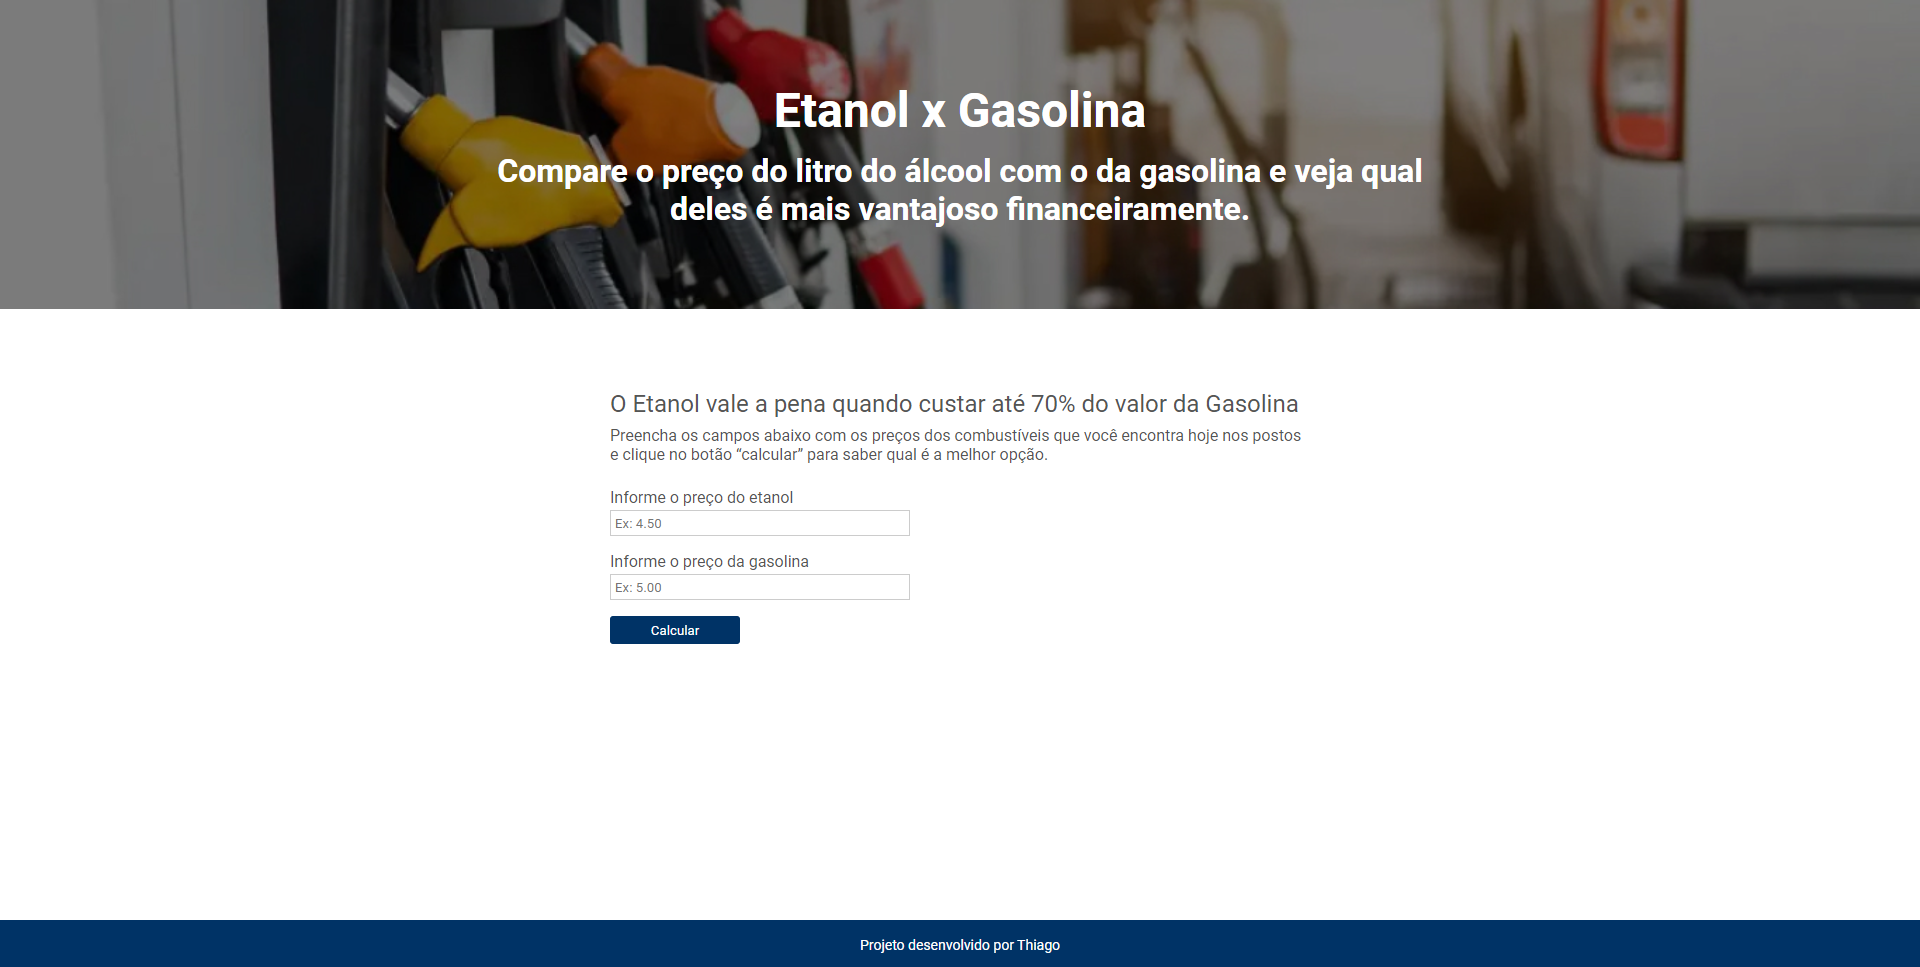
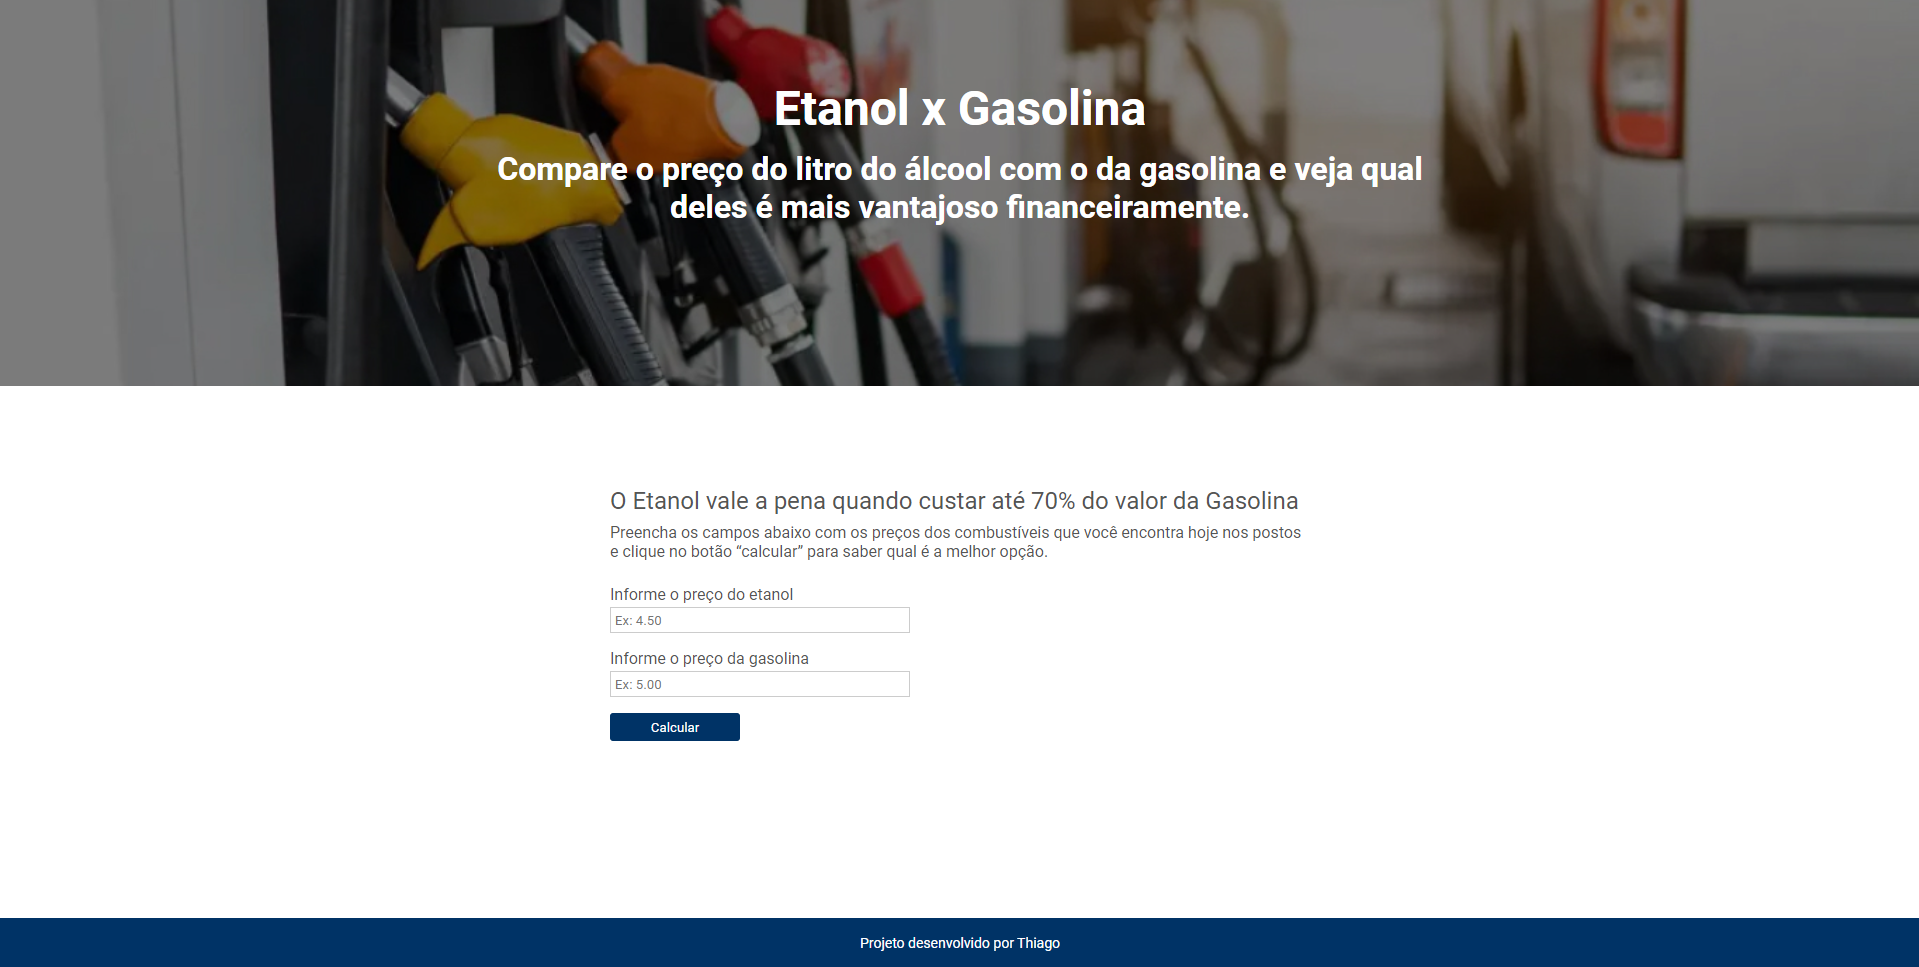
Add files via upload

diff --git a/index.html b/index.html
@@ -40,7 +40,7 @@
 
                 <div class="hero-social">
                     <a href=""><i class='bx bxl-linkedin'></i></a>
-                    <a href=""><i class='bx bxl-github'></i></a>
+                    <a href="https://github.com/Th-nsoliveira" target="_blank"><i class='bx bxl-github'></i></a>
                     <a href=""><i class='bx bxl-instagram'></i></a>
                 </div>
             </div>
@@ -165,6 +165,22 @@
                 </div>
             </a>
 
+
+            <a href="https://th-nsoliveira.github.io/project-rustico/"  target="_blank" class="projetos">
+                <span class="bg-img"><img src="img/rustico.png"></span>
+                <div class="descricao">
+                    <h3>Rustico</h3>
+                    <p>Website</p>
+                    <div class="icones">
+                        <span><img src="img/hmllogo.svg" alt="" title="HTML"></span>
+                        <span><img src="img/csslogo.svg" alt="" title="CSS"></span>
+                        <span><img src="img/jslogo.svg" alt="" title="JavaScript"></span>
+                        <span><img src="img/figmalogo.svg" alt="" title="Figma"></span>         
+                    </div>
+                </div>
+            </a>
+
+
             <a href="https://th-nsoliveira.github.io/project-gas/"  target="_blank" class="projetos">
                 <span class="bg-img"><img src="img/etanol.png"></span>
                 <div class="descricao">
@@ -177,23 +193,6 @@
                     </div>
                 </div>
             </a>
-
-            <a href="https://th-nsoliveira.github.io/projeto-links/"  target="_blank" class="projetos">
-                <span class="bg-img"><img src="img/links.png"></span>
-                <div class="descricao">
-                    <h3>Linktree</h3>
-                    <p>Website</p>
-                    <div class="icones">
-                        <span><img src="img/hmllogo.svg" alt="" title="HTML"></span>
-                        <span><img src="img/csslogo.svg" alt="" title="CSS"></span>         
-                    </div>
-                </div>
-            </a>
-
-            <div class="projetos">
-                
-            </div>
-
         </div>
 
     </div>

diff --git a/css/style.css b/css/style.css
@@ -70,7 +70,7 @@ header .container{
 .hero{
     display: flex;
     align-items: center;
-    height: 100vh;  
+    height: 85vh;  
     
 }
 
@@ -356,7 +356,7 @@ p{
     column-gap: 40px;
     flex-wrap: wrap;
     margin: 0 auto;
-    justify-content: center;
+    justify-content: space-between;
     padding-bottom: 100px;
 }
 
